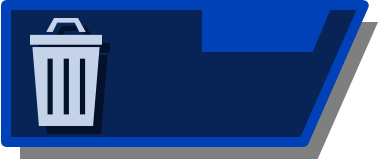
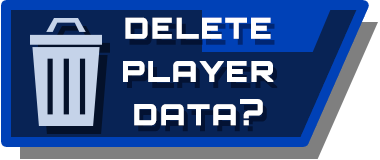
Tutorial Pointers on Level Select Fix
Also uploaded delete button with text

Changed region(s): [[0.3184, 0.375, 0.7526, 0.5625], [0.3184, 0.0938, 0.7237, 0.2812], [0.3474, 0.5938, 0.7237, 0.8438]]

diff --git a/Assets/Scripts/GUI Scripts/GUIControls/TutorialPointers.js b/Assets/Scripts/GUI Scripts/GUIControls/TutorialPointers.js
@@ -41,9 +41,11 @@ private var inspDispRef : InspectionDisplay;
 //THESE VARIABLES ARE ONLY FOR IF IT IS NOT IN GAME:
 public var notInGame:boolean = false;
 private var OnScoreScreen:boolean = false;
+private var onMissionSelect:boolean = false;
 
 function Start()
 {
+	Debug.Log("***" + pointers.Count);
 	currentColor = Color.white;
 	
 	tutorialCircle = Resources.Load("tutorialCircle") as Texture;
@@ -63,7 +65,9 @@ function Start()
 		}
 		
 		currentArrow = null;
+		Debug.Log("^^^" + pointers.Count);
 		checkTrigger();
+		Debug.Log("$$$" + pointers.Count);
 		hasPointers = true;
 		waitingForRelease = false;
 		
@@ -76,12 +80,20 @@ function Start()
 	}
 	else
 		hasPointers = false;
+		
+		
+	Debug.Log("..." + pointers.Count);
 }
 
 public function Disable()
 {
 	hasPointers = false;
 	pointers.Clear();
+}
+public function Enable(OnMS:boolean)
+{
+	hasPointers = true;
+	onMissionSelect = OnMS;
 }
 
 public function Render()
@@ -322,7 +334,7 @@ public function checkTrigger()
 {
 	var makeChange:boolean = false;
 	
-	if(pointers.Count > 0 && dOS.WasAlreadyDisplayed(arrowNumOrder, true))
+	if(!onMissionSelect && pointers.Count > 0 && dOS.WasAlreadyDisplayed(arrowNumOrder, true))
 	{
 		currentArrow = null;
 		pointers.Remove(pointers[0]);

diff --git a/Assets/Scripts/GUI Scripts/GUIControls/LevelSelectMenu.js b/Assets/Scripts/GUI Scripts/GUIControls/LevelSelectMenu.js
@@ -350,6 +350,8 @@ public class LevelSelectMenu extends GUIControl
 	//ShadowedText
 	private var objTextST:ShadowedText;
 	
+	private var pointers : TutorialPointers;
+	
 	public function Start () 
 	{
 		super.Start();
@@ -639,17 +641,19 @@ public class LevelSelectMenu extends GUIControl
 				displayTips = false;
 		}
 		
+		pointers = gameObject.GetComponent(TutorialPointers);
+		
 		if (lastUnlockedIndex < levelsFromXML.numInitialTutorials || (unlockedLevels.Count > 0 && unlockedLevels[0] == levels[0]))
 		{
 			showSplash = true;
 			checkRender = true;
 			activeLevelIndex = 0;//levels.Length - 1 - lastUnlockedIndex;
-			var pointers : TutorialPointers = gameObject.GetComponent(TutorialPointers);
 			pointers.Disable();
 		}
 		else if (displayTutorialToolTips || (displayTips && tooltipDisplay != null && ((lastUnlockedIndex - 1) == levelsFromXML.numInitialTutorials)))
 		{				
 			var dOS : DisplayOnceSystem = new DisplayOnceSystem(false);
+			pointers.Enable(true);
 			for (i = 0; i < dashboardTooltips.Length; i++)
 			{
 				if(!dOS.WasAlreadyDisplayed(i, false, true))
@@ -1144,6 +1148,8 @@ public class LevelSelectMenu extends GUIControl
 			}
 		}
 		GUI.EndGroup();
+		
+		pointers.Render();
 	}
 	
 	private function HoldWait()

diff --git a/Assets/Scripts/GUI Scripts/InspectionSystem/InspectionDisplay.js b/Assets/Scripts/GUI Scripts/InspectionSystem/InspectionDisplay.js
@@ -233,7 +233,6 @@ public function ActivateAndDeactivate(disp : Tooltip)
 	}
 }
 
-
 public function Activate(disp : String)
 {
 	componentSelected = true;
